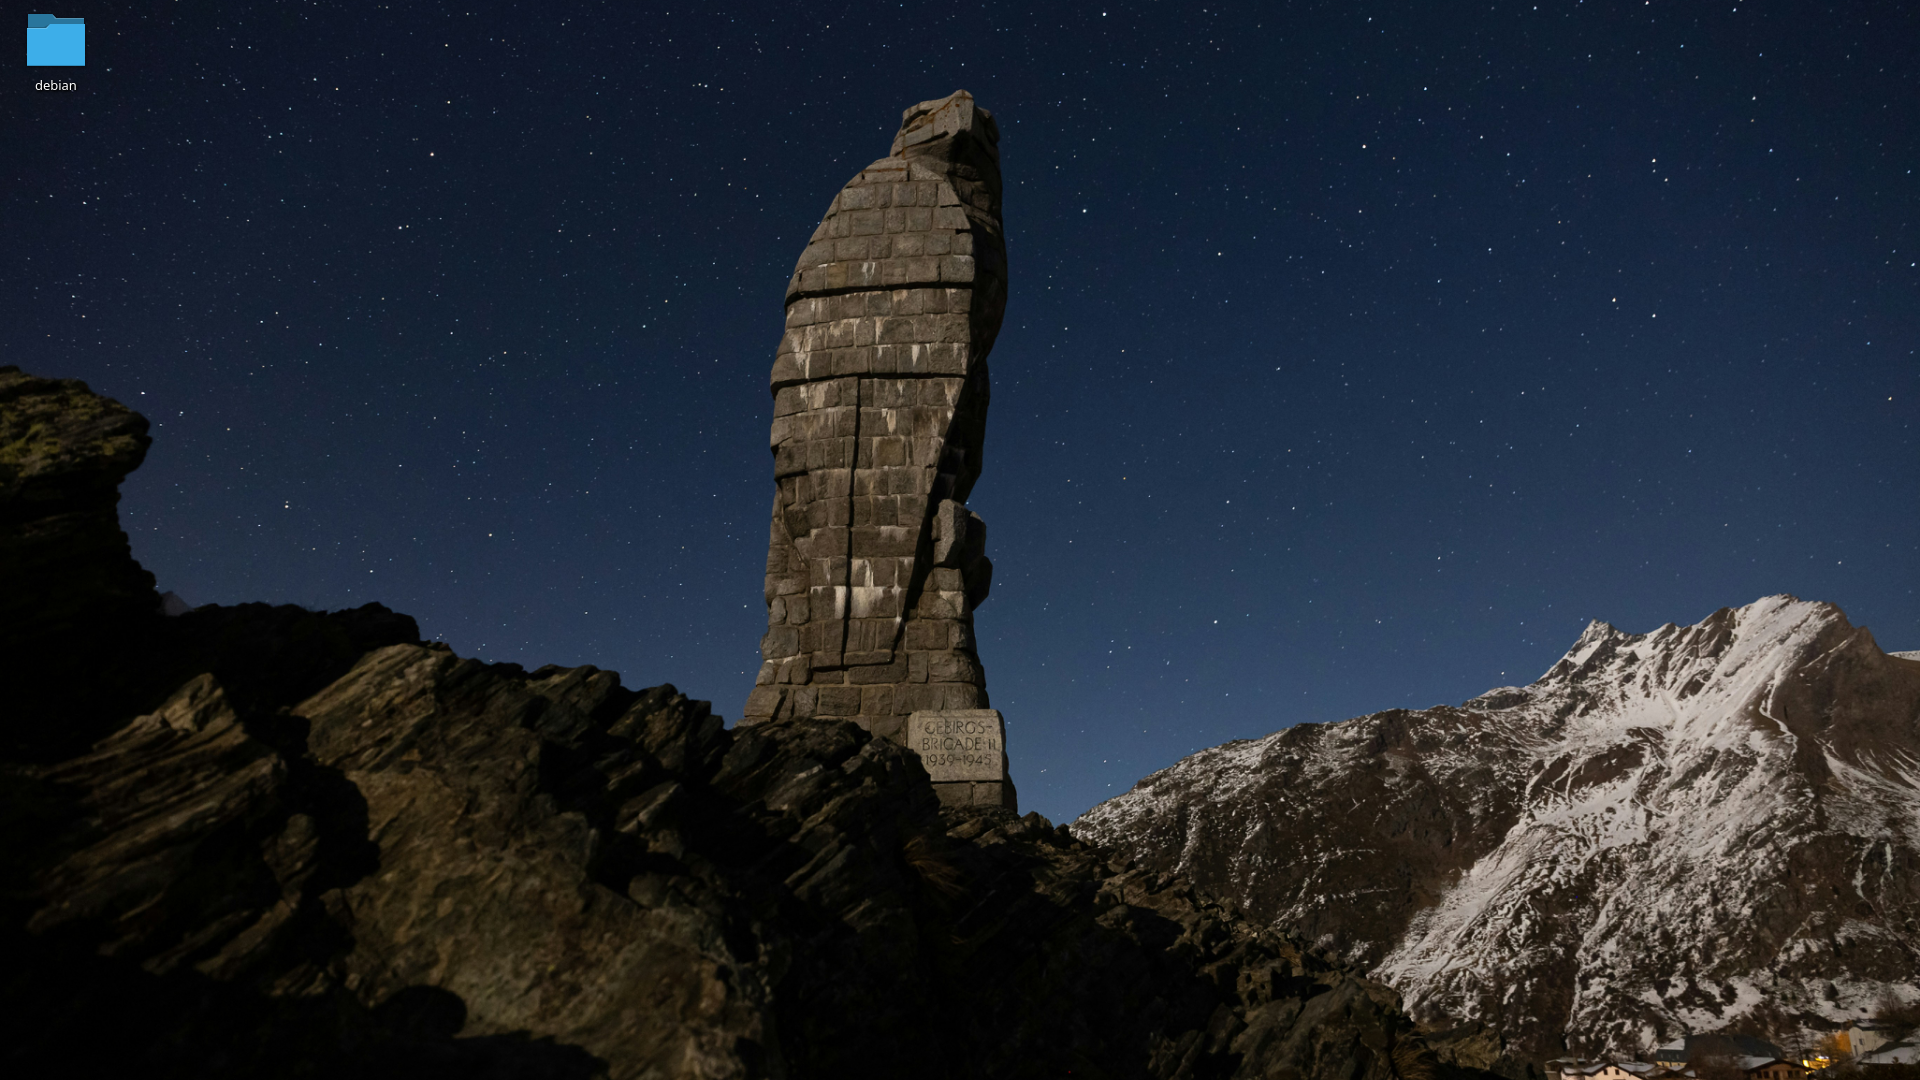
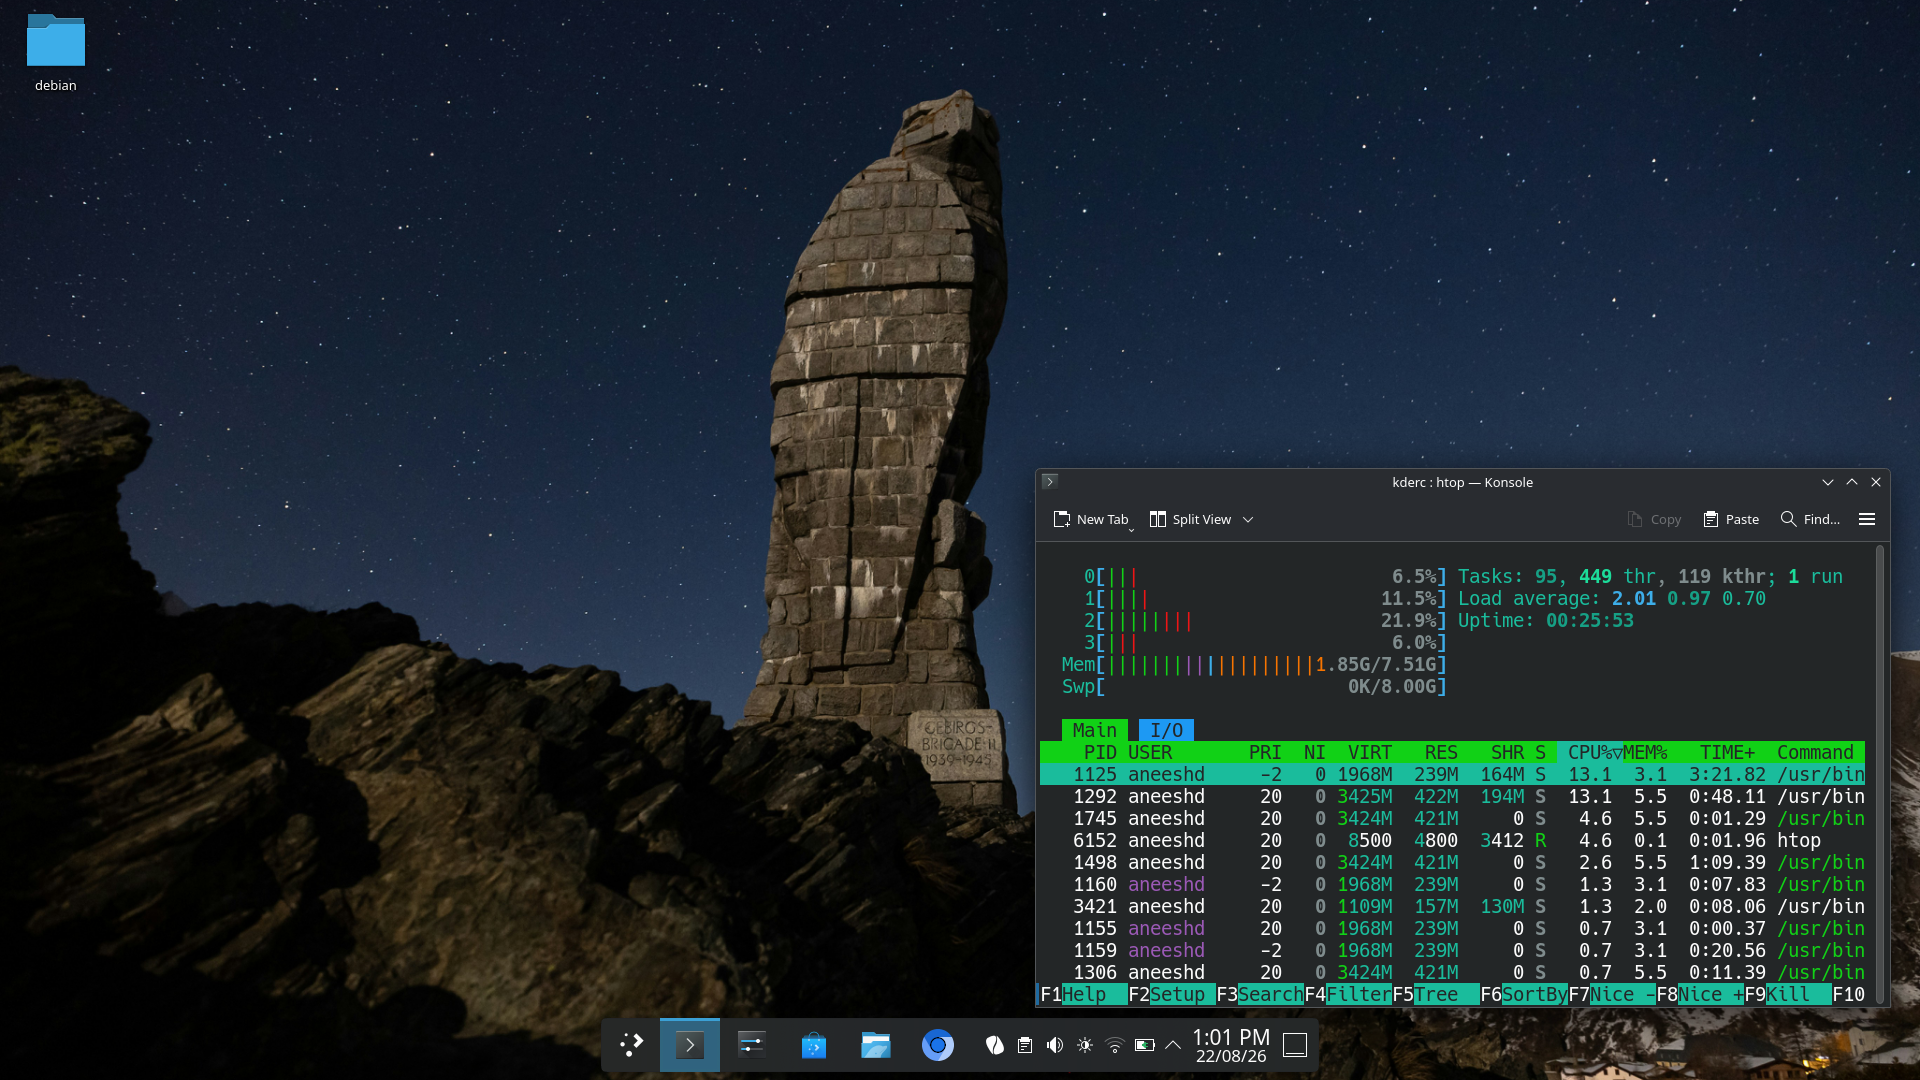
refactor

Changed region(s): [[0.3125, 0.4278, 1.0, 1.0]]

diff --git a/README.md b/README.md
@@ -16,18 +16,21 @@ Here's a jumbled assortment of fixes and tweaks made to my KDE -
 Involved a heavy usage of background scripts and cron jobs and lots of learnings; looks cool though.
 
 ## vimrc
-Vim is a super-powerful IDE, immensely enjoyable to get tweaked. Sharing my vimrc for reference in this repo.
+Vim is a super-powerful IDE, immensely tweakable. Sharing my vimrc for reference in this repo.
 - **Persistent editor**: users can undo with previous changes everytime  they open a file.
 - **Search**: highlights are closed with `,<SPACE>`
 - **NerdTree**: toggles with F2, closed initially
 - **cursor**: highlighted with `/c`, absent initially
+
+```sh
+cp vimrc ~/.vimrc
+```
 
 ## shell
 ![image](./ss/zsh_shell.png)
 `aliases.zsh` and `zsh.sh` are attached
 
 ```sh
-mv aliases.zsh $ZSH_CUSTOM/.
 ./zsh.sh
 ```
 
@@ -39,4 +42,6 @@ The light/dark mode switch was intended from early on. Times are intended to syn
 - Browser
 
 Ref: **Koi** [https://github.com/baduhai/Koi)]
+
+> Ref: AppImage.md
 

diff --git a/AppImage.md b/AppImage.md
@@ -38,3 +38,4 @@ Categories=Utility;
 Keywords=markdown;notes               # add searchable keywords
 ```
 
+
